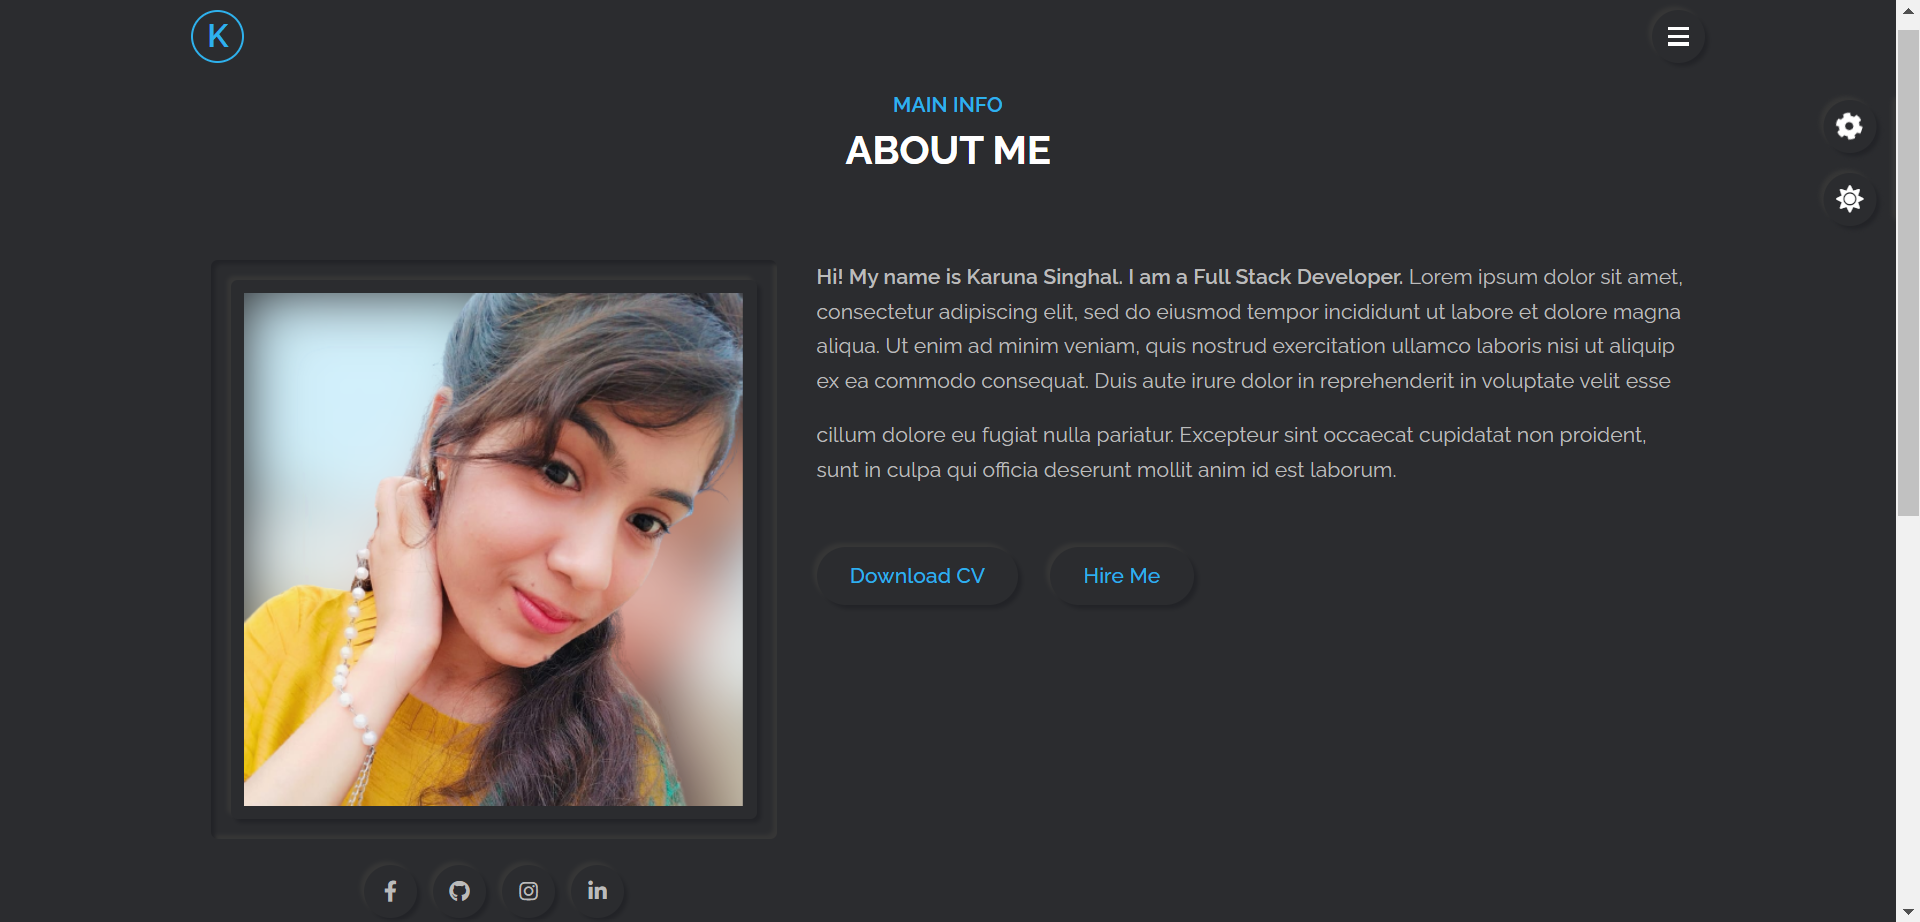
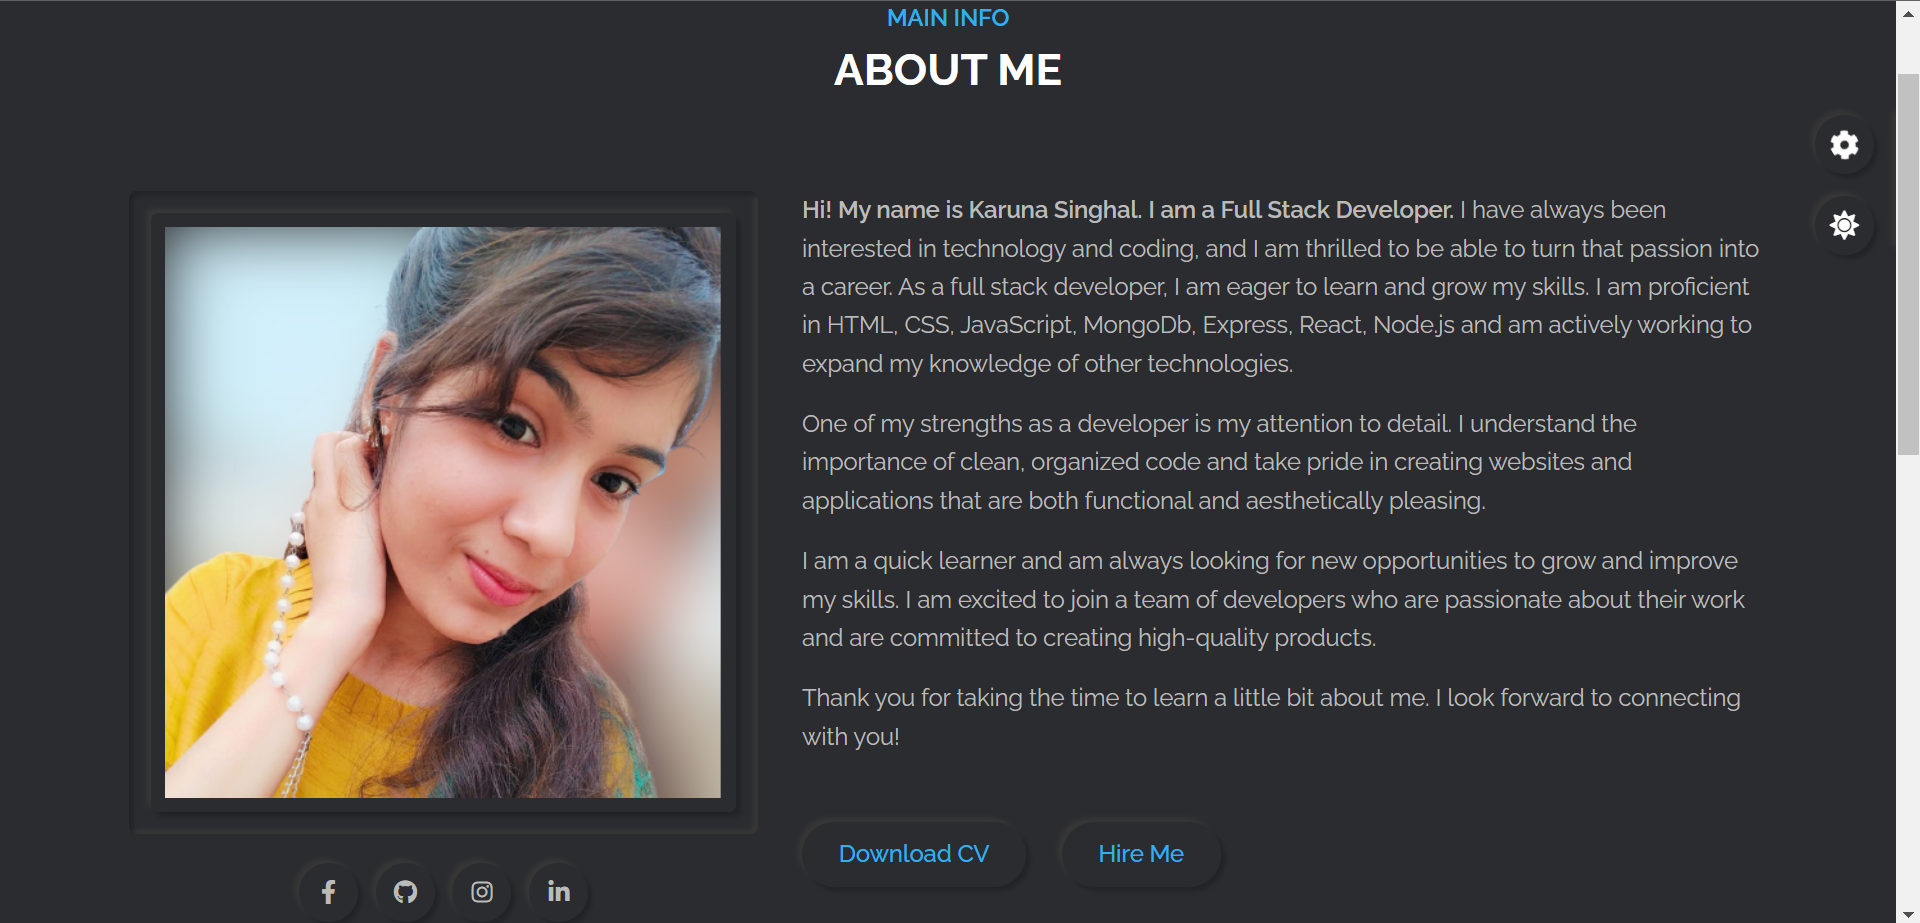
save

diff --git a/index.html b/index.html
@@ -674,7 +674,11 @@
         img/portfolio/large/project-3/3.png,
         img/portfolio/large/project-3/4.png,
         img/portfolio/large/project-3/5.png,
-        img/portfolio/large/project-3/6.png"
+        img/portfolio/large/project-3/6.png,
+        img/portfolio/large/project-3/7.png,
+        img/portfolio/large/project-3/8.png,
+        img/portfolio/large/project-3/9.png,
+        img/portfolio/large/project-3/10.png"
                 />
 
                 <!-- view project btn -->
